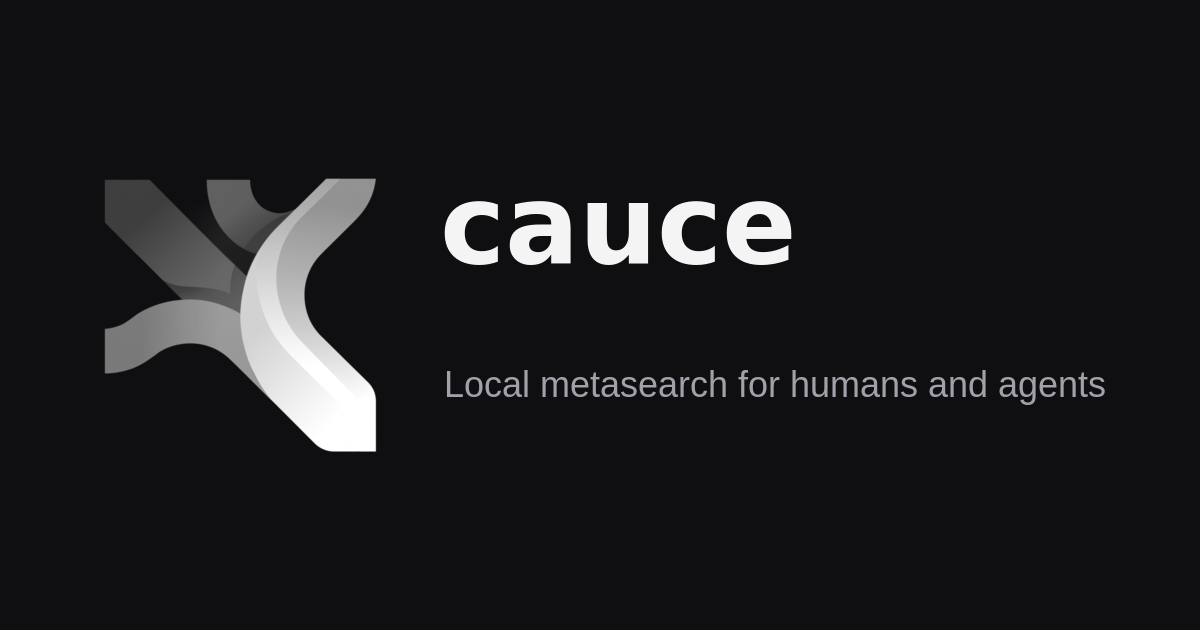
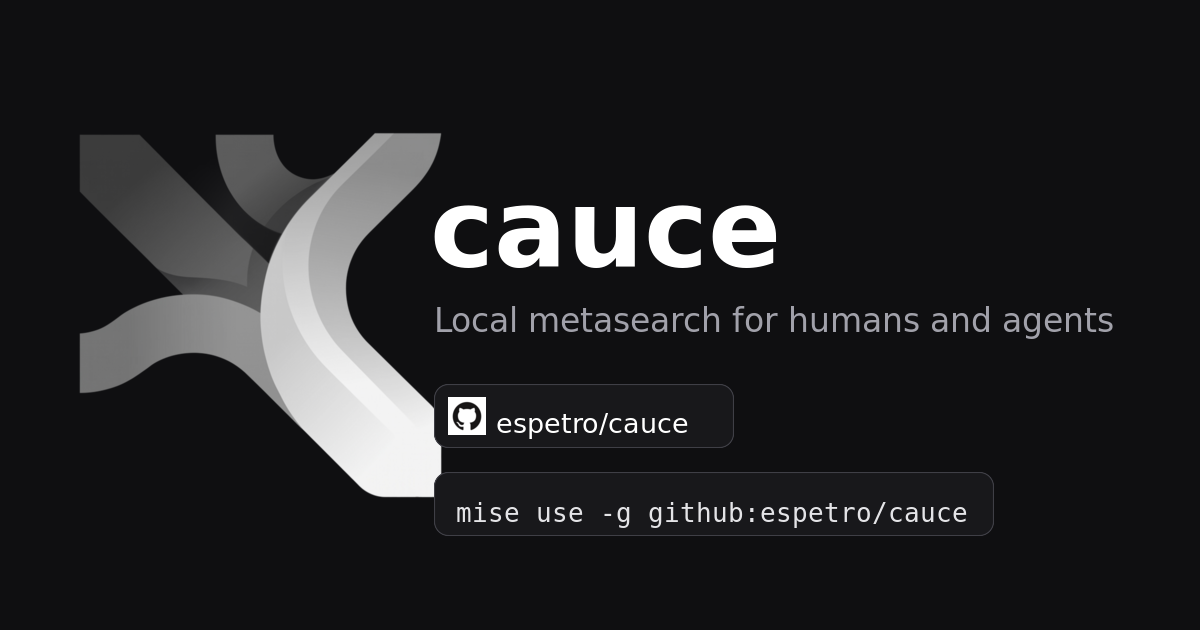
feat(brand,docs): og card gains repo badge + install line; README goes marketing-first
- assets/brand/og/og-1-dark.png (and the og.png default): adds an
  espetro/cauce badge pill (GitHub mark) and a
  'mise use -g github:espetro/cauce' command pill; tagline resized so
  it no longer clips the right edge.
- README rewritten to a marketing-first layout (centered icon, tagline,
  release/license/follow badges, Try it now, Install, What it does,
  Stack table) matching the house style used in espetro/dits.
- docs/install.md: leads with the mise one-liner (mise use -g
  github:espetro/cauce), release-binary and source paths kept.

diff --git a/README.md b/README.md
@@ -1,14 +1,51 @@
-# cauce
-
 <p align="center">
-  <img src="assets/brand/cauce-mark-512.png" alt="cauce" width="160" />
+  <img src="assets/brand/cauce-mark-512.png" width="96" height="96" alt="cauce icon" />
 </p>
 
-Local metasearch for humans and agents: one web UI, one HTTP API, one MCP server, one shared
-TTL cache. Tail-tolerant fan-out over pluggable search engines, SQLite storage, single binary.
+<h1 align="center">cauce</h1>
 
-v3 is under construction. Plan: `.agents/plans/2026-09-21-v3-rust-core.md`.
-Previous attempts: branches `legacy` (v1) and `v2-legacy` (v2).
+<p align="center">Local metasearch for humans and agents. One binary, one shared TTL cache.</p>
 
-Filing a bug? `GET /api/report` or `cauce report` produces a redacted JSON bundle to
-attach — see [docs/reporting.md](docs/reporting.md).
+<p align="center">
+  <a href="https://github.com/espetro/cauce/releases"><img src="https://img.shields.io/github/v/release/espetro/cauce" alt="latest release" /></a>
+  <a href="https://github.com/espetro/cauce/blob/main/LICENSE"><img src="https://img.shields.io/badge/license-MPL--2.0-blue" alt="license: MPL-2.0" /></a>
+  <a href="https://x.com/josocjoq"><img src="https://img.shields.io/twitter/follow/josocjoq?style=social" alt="Follow @josocjoq" /></a>
+</p>
+
+## Try it now
+
+[cauce.fyi](https://cauce.fyi) — the public instance · docs at [docs.cauce.fyi](https://docs.cauce.fyi)
+
+## Install it
+
+```sh
+mise use -g github:espetro/cauce
+cauce serve        # UI + API + MCP on http://127.0.0.1:4479
+```
+
+Or grab a release binary / build from source: [docs/install.md](docs/install.md)
+
+## What it does
+
+- One web UI, one HTTP API, one MCP server — all reading the same TTL cache.
+- Tail-tolerant fan-out over pluggable engines (declarative YAML, exec, replay) with hedging and circuit breakers.
+- Grounded AI answers at `POST /api/answer`, with optional BYOK and a free daily-answer budget for public instances.
+- Local archive + search history in SQLite FTS5.
+- Self-hosted and local-first: a single Rust binary, loopback by default; a public-instance mode exists for the edge.
+
+## Stack
+
+| Path                        | What it owns                                            |
+| --------------------------- | ------------------------------------------------------- |
+| `crates/cauce-core`         | Search pipeline, `Store` + `Engine` traits              |
+| `crates/cauce-server`       | axum HTTP/SSE/MCP, embedded Svelte SPA at `/app`        |
+| `crates/cauce-engines`      | Declarative / exec / replay engine runtimes             |
+| `crates/cauce-store-sqlite` | rusqlite `Store` implementation                         |
+| `crates/cauce-agent`        | Grounded-answer agent loop                              |
+| `crates/cauce-cli`          | `cauce serve` / `search` / `engine` / `cache` / `record` |
+| `engines/`                  | YAML engine specs + fixtures                            |
+| `sdk/python`                | exec-protocol SDK + `ddgs` reference engine             |
+
+End-user docs: [docs.cauce.fyi](https://docs.cauce.fyi) · developer docs: [`.agents/docs/`](.agents/docs/)
+
+Filing a bug? `GET /api/report` or `cauce report` produces a redacted JSON bundle to attach — see [docs/reporting.md](docs/reporting.md).

diff --git a/docs/install.md b/docs/install.md
@@ -1,7 +1,17 @@
 # Install
 
 cauce is a single self-contained Rust binary (engines + UI + AI + archive compiled in; rustls, no
-OpenSSL). Install from a GitHub release or build from a checkout.
+OpenSSL). Install with mise, from a GitHub release, or build from a checkout.
+
+## Install with mise
+
+```bash
+mise use -g github:espetro/cauce
+cauce serve     # UI + API + MCP on http://127.0.0.1:4479
+```
+
+This pulls the latest release binary for your platform. To run once without installing:
+`mise x github:espetro/cauce -- cauce serve`.
 
 ## Install a release binary
 
